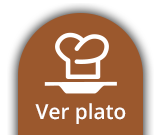
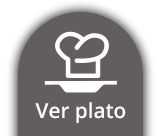
Colores

diff --git a/www/css/style.css b/www/css/style.css
@@ -165,7 +165,7 @@ a.btn-reset{
 }
 .menusup
 {
-	background: #057797;
+	background: #960001;
 	/*min-width: 532px;*/
 	width: 100%;
 	position: fixed;
@@ -186,11 +186,11 @@ a.btn-reset{
 }
 .menusup button:hover
 {
-	background: #01425f;
+	background: #dd0616;
 }
 .menusup button.active
 {
-	background: #01425f;
+	background: #dd0616;
 }
 .menusup button.ico-menu
 {
@@ -318,7 +318,7 @@ a.btn-reset{
 }
 .menupie
 {
-	background: #057797;
+	background: #960001;
 	position: fixed;
 	bottom: 0px;
 	left: 0px;
@@ -346,7 +346,7 @@ a.btn-reset{
 }
 .menupie ul li:hover
 {
-	background: #01425f;
+	background: #dd0616;
 }
 .menupie ul li a img
 {
@@ -363,7 +363,7 @@ a.btn-reset{
 	width: 30px;
 	height: 30px;
 	border-radius: 20px;
-	background: #ff0000;
+	background: #2f2f2f;
 	color: #FFFFFF;
 	font-size: 20px;
 	left: 53%;
@@ -371,7 +371,7 @@ a.btn-reset{
 }
 .menupie ul li.active
 {
-	background: #01425f;
+	background: #dd0616;
 }
 .menuplato
 {
@@ -1261,7 +1261,7 @@ max-width:20%;*/
 }
 .vermapa .pedidotar .cont
 {
-	background: #B72025;
+	background:#2f2f2f;
 	padding: 5px;
 	color: #FFFFFF;
 	display: inline-block;
@@ -1279,7 +1279,7 @@ max-width:20%;*/
 	background: white;
 	border-radius: 60px;
 	padding: 10px;
-	border:2px solid #B72025;
+	border:2px solid #2f2f2f;
 	left: 0px;
 	top: -20px;
 	left: 20px;	
@@ -1625,9 +1625,9 @@ float: left;
 	text-decoration: none;
 }
 .botones .btn1 img{
-	background: #FFF;
+	background:#2f2f2f;
 	border-radius: 100px;
-	border: 1px solid #FFF;
+	border: 1px solid #2f2f2f;
 }
 .botones .btn1 img,.botones .btn2 img{
 	display: inline-block;
@@ -1637,7 +1637,7 @@ float: left;
 }
 .botones .btn1 p,.botones .btn2 p{
 	display: inline-block;
-	color: #FFF;
+	color:#2f2f2f;
 	font-weight: bold;
 	font-size: 12px;
 }
@@ -1645,23 +1645,23 @@ float: left;
 	padding-right: 15px;
 }
 .botones .btn1{
-	background-color: #482810;
+	background-color:#d5d5d5;
 	width: 43%;
 	text-align: center;
 }
 .botones .btn2{
-	background-color: #964f22;
+	background-color:#f4f4f4;
 	width:44%;
 	text-align: center;
 }
 .botones .btn3{
-	background-color: #964f22;
+	background-color:#f4f4f4;
 	width:13%;
 	text-align: center;
 }
 .botones .btn3 span{
-	background: #FFF;
-	color: #333;
+	background: #2f2f2f;
+	color: #fff;
 	padding:6px 12px;
 	border-radius:100px;
 	margin-top:2px;

diff --git a/www/css/index.css b/www/css/index.css
@@ -1,14 +1,14 @@
 body{
     padding:0;
     margin:0;
-    background-color:#482810;
+    background-color:#dd0616;
 }
 a img
 {
     border:0px;
 }
 .container:after{
-   content: url(../images/fondo.png) display:none;
+   /*content: url(../images/fondo.png) display:none;*/
 }
 .container
 {
@@ -17,9 +17,9 @@ a img
     width: 100%;
     height: 100%;
     margin: auto;
-    background: url(../images/fondo.png);
+/*    background: url(../images/fondo.png);
     background-repeat: no-repeat;
-    background-size: cover;
+    background-size: cover;*/
     position: fixed;
     padding: 0px;
     padding-bottom: 150px;

diff --git a/www/offline.html b/www/offline.html
@@ -12,7 +12,7 @@
         <div class="inicio" style="margin-top:10%;color:white; font-size:15px;">
             <p>Internet no disponible.<br/>Conectese a una red de datos y reinicie el aplicativo.</p>
             <a href="internal.html"><img src="images/logo.png" class="img1" alt="..." title="..."></a>
-            <img src="images/titleptu.png" class="img2" alt=".../" title="...">
+            <!-- <img src="images/titleptu.png" class="img2" alt=".../" title="..."> -->
         </div>
     </div>
     <script type="text/javascript" src="js/jquery-1.11.1.min.js"></script>

diff --git a/www/login.html b/www/login.html
@@ -7,8 +7,8 @@
     <link rel="stylesheet" type="text/css" href="bootstrap/css/bootstrap.min.css">
     <link rel="stylesheet" type="text/css" href="css/style.css">
 </head>
-<body ng-controller='loginController'>
-    <div class="container">
+<body ng-controller='loginController' style="background-color:#dd0616;">
+    <div class="container" style="background:none;">
         <!-- Menu -->
         <div class="menusup">
             <button class="verlatermenu ico-menu" id="ico_menu"><span></span></button>

diff --git a/www/index.html b/www/index.html
@@ -12,7 +12,7 @@
     <div class="container">
         <div class="inicio">
             <img src="images/logo.png" class="img1" alt="..." title="...">
-            <img src="images/titleptu.png" class="img2" alt=".../" title="...">
+            <!-- <img src="images/titleptu.png" class="img2" alt=".../" title="..."> -->
         </div>
     </div>
     <script type="text/javascript" src="phonegap.js"></script>

diff --git a/www/load.html b/www/load.html
@@ -7,7 +7,7 @@
   <link rel="stylesheet" type="text/css" href="bootstrap/css/bootstrap.min.css">
   <link rel="stylesheet" type="text/css" href="css/style.css">
 </head>
-<body>
+<body style="background-color:#dd0616;">
     <div class="loading_container">
         <!-- Menu -->
         <div class="menusup">            
